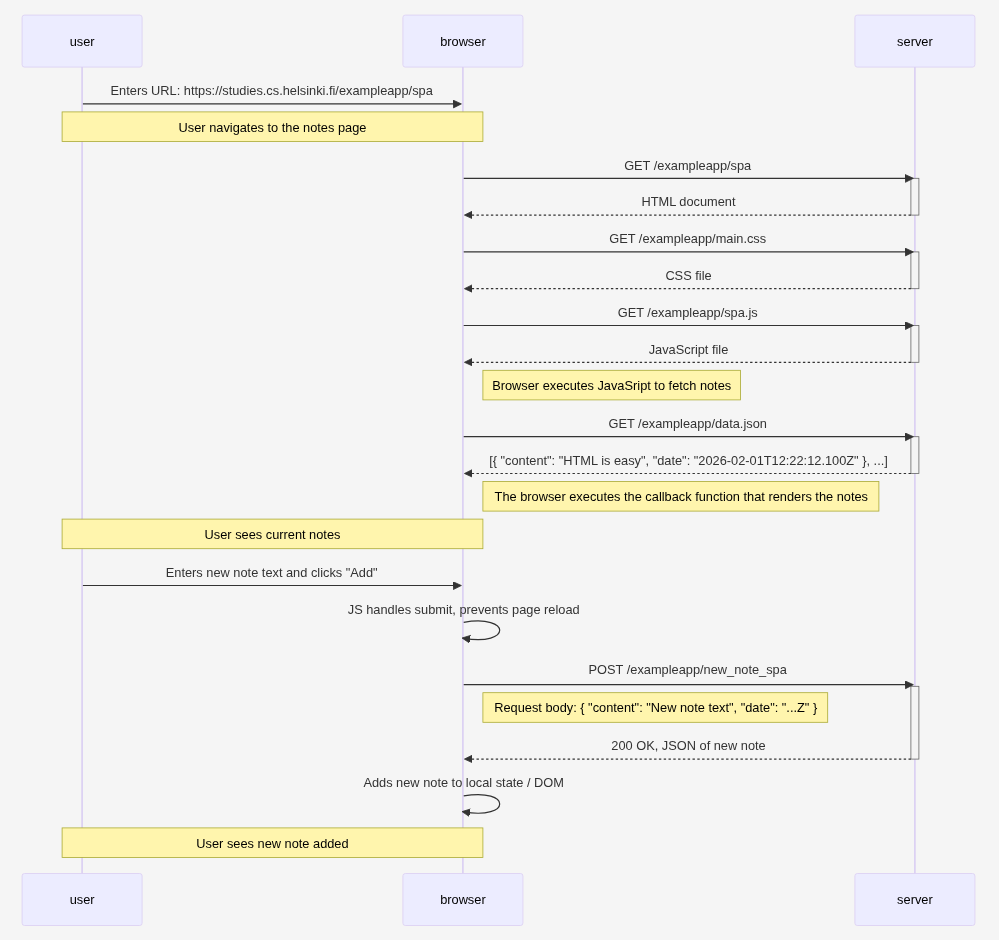
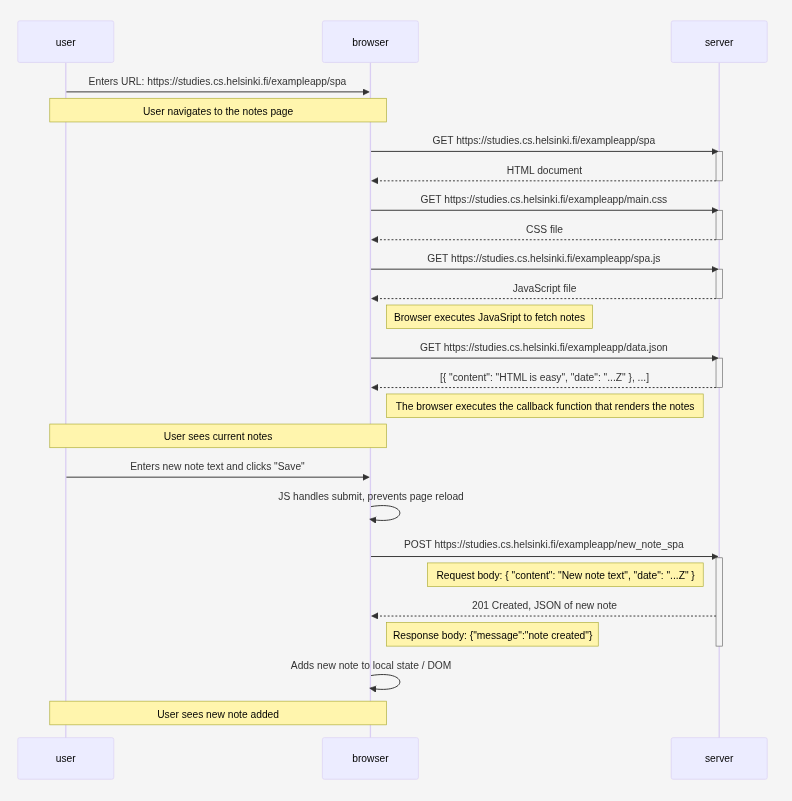
part0/ex-0-6: correct URLs and Note positions in the diagram

diff --git a/part-0/README.md b/part-0/README.md
@@ -178,26 +178,26 @@ sequenceDiagram
     Note over user,browser: User navigates to the notes page
 
     %% --- Browser fetches initial files ---
-    browser->>server: GET /exampleapp/spa
+    browser->>server: GET https://studies.cs.helsinki.fi/exampleapp/spa
     activate server
     server-->>browser: HTML document
     deactivate server
 
-    browser->>server: GET /exampleapp/main.css
+    browser->>server: GET https://studies.cs.helsinki.fi/exampleapp/main.css
     activate server
     server-->>browser: CSS file
     deactivate server
 
-    browser->>server: GET /exampleapp/spa.js
+    browser->>server: GET https://studies.cs.helsinki.fi/exampleapp/spa.js
     activate server
     server-->>browser: JavaScript file
     deactivate server
 
     Note right of browser: Browser executes JavaSript to fetch notes
 
-    browser->>server: GET /exampleapp/data.json
+    browser->>server: GET https://studies.cs.helsinki.fi/exampleapp/data.json
     activate server
-    server-->>browser: [{ "content": "HTML is easy", "date": "2026-02-01T12:22:12.100Z" }, ...]
+    server-->>browser: [{ "content": "HTML is easy", "date": "...Z" }, ...]
     deactivate server
 
     Note right of browser: The browser executes the callback function that renders the notes
@@ -205,14 +205,15 @@ sequenceDiagram
     Note over user,browser: User sees current notes
 
     %% --- User creates new note ---
-    user->>browser: Enters new note text and clicks "Add"
+    user->>browser: Enters new note text and clicks "Save"
     browser->>browser: JS handles submit, prevents page reload
 
     %% --- Browser sends new note to server ---
-    browser->>server: POST /exampleapp/new_note_spa
+    browser->>server: POST https://studies.cs.helsinki.fi/exampleapp/new_note_spa
     activate server
-    Note right of browser: Request body: { "content": "New note text", "date": "...Z" }
-    server-->>browser: 200 OK, JSON of new note
+    Note left of server: Request body: { "content": "New note text", "date": "...Z" }
+    server-->>browser: 201 Created, JSON of new note
+    Note right of browser: Response body: {"message":"note created"}
     deactivate server
 
     %% --- Browser updates ---

diff --git a/part-0/ex-0-6/README.md b/part-0/ex-0-6/README.md
@@ -9,26 +9,26 @@ sequenceDiagram
     Note over user,browser: User navigates to the notes page
 
     %% --- Browser fetches initial files ---
-    browser->>server: GET /exampleapp/spa
+    browser->>server: GET https://studies.cs.helsinki.fi/exampleapp/spa
     activate server
     server-->>browser: HTML document
     deactivate server
 
-    browser->>server: GET /exampleapp/main.css
+    browser->>server: GET https://studies.cs.helsinki.fi/exampleapp/main.css
     activate server
     server-->>browser: CSS file
     deactivate server
 
-    browser->>server: GET /exampleapp/spa.js
+    browser->>server: GET https://studies.cs.helsinki.fi/exampleapp/spa.js
     activate server
     server-->>browser: JavaScript file
     deactivate server
 
     Note right of browser: Browser executes JavaSript to fetch notes
 
-    browser->>server: GET /exampleapp/data.json
+    browser->>server: GET https://studies.cs.helsinki.fi/exampleapp/data.json
     activate server
-    server-->>browser: [{ "content": "HTML is easy", "date": "2026-02-01T12:22:12.100Z" }, ...]
+    server-->>browser: [{ "content": "HTML is easy", "date": "...Z" }, ...]
     deactivate server
 
     Note right of browser: The browser executes the callback function that renders the notes
@@ -36,14 +36,15 @@ sequenceDiagram
     Note over user,browser: User sees current notes
 
     %% --- User creates new note ---
-    user->>browser: Enters new note text and clicks "Add"
+    user->>browser: Enters new note text and clicks "Save"
     browser->>browser: JS handles submit, prevents page reload
 
     %% --- Browser sends new note to server ---
-    browser->>server: POST /exampleapp/new_note_spa
+    browser->>server: POST https://studies.cs.helsinki.fi/exampleapp/new_note_spa
     activate server
-    Note right of browser: Request body: { "content": "New note text", "date": "...Z" }
-    server-->>browser: 200 OK, JSON of new note
+    Note left of server: Request body: { "content": "New note text", "date": "...Z" }
+    server-->>browser: 201 Created, JSON of new note
+    Note right of browser: Response body: {"message":"note created"}
     deactivate server
 
     %% --- Browser updates ---
